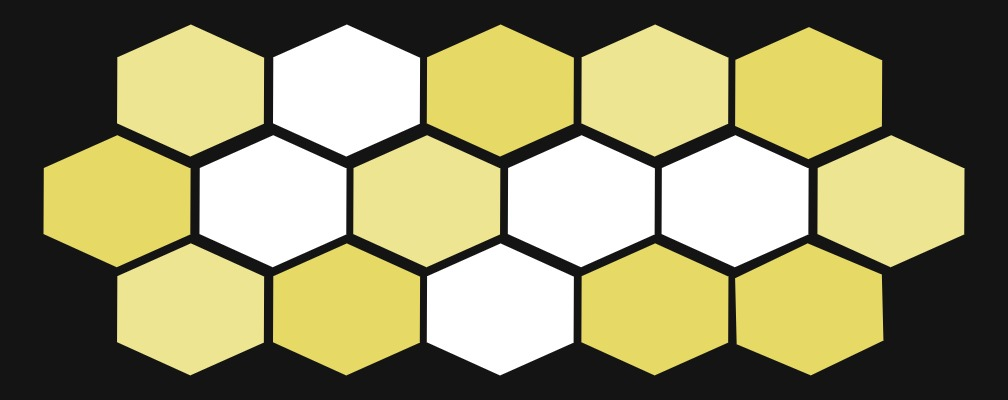
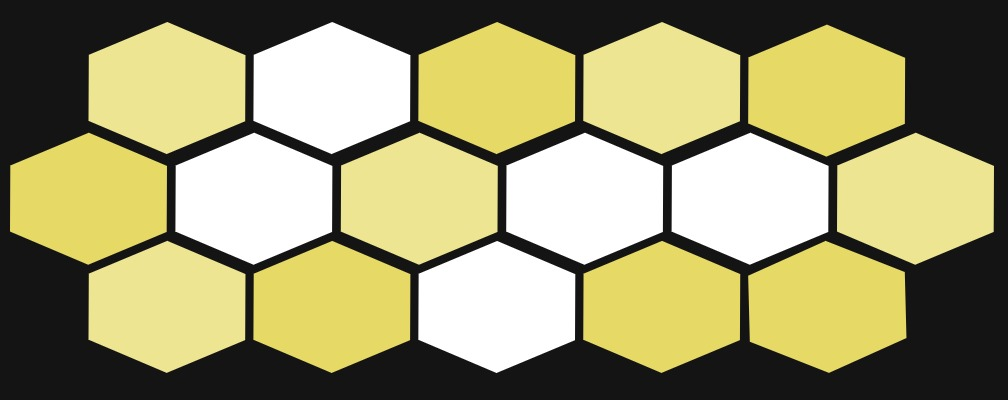
adding fade to hexagons resizing welcome page

diff --git a/index.html b/index.html
@@ -65,9 +65,26 @@
                         <i class="fa fa-linkedin" style="font-size:25px;"></i>
                     </a>
                 </p>
-                <div class="hexagon">
-                    <img src="images/hex.jpeg" class="img-responsive">
+                <div class="hexagon" class="slideshow-container">
+
+                    <div class="mySlides fade">
+                            <img src="images/hex.jpeg" class="img-responsive">
+                          </div>
+                          
+                          <div class="mySlides fade">
+                            <img src="images/hex2.jpeg" class="img-responsive">
+                          </div>
+                          
+                          <div class="mySlides fade">
+                            <img src="images/hex3.jpeg" class="img-responsive">
+                          </div>
+
                 </div>
+                <div>
+                        <span class="slide"></span> 
+                        <span class="slide"></span> 
+                        <span class="slide"></span> 
+                      </div>
     </div>
     <div id="about" class="container-fluid">
         <h1 id="abouth">About Me</h1>
@@ -277,6 +294,27 @@
                 this.className += " active";
             });
         }
+    </script>
+    <script>
+        var slideIndex = 0;
+showSlides();
+
+function showSlides() {
+    var i;
+    var slides = document.getElementsByClassName("mySlides");
+    var slide = document.getElementsByClassName("slide");
+    for (i = 0; i < slides.length; i++) {
+       slides[i].style.display = "none";  
+    }
+    slideIndex++;
+    if (slideIndex > slides.length) {slideIndex = 1}    
+    for (i = 0; i < slide.length; i++) {
+        slide[i].className = slide[i].className.replace(" active", "");
+    }
+    slides[slideIndex-1].style.display = "block";  
+    slide[slideIndex-1].className += " active";
+    setTimeout(showSlides, 2000); // Change image every 2 seconds
+}
     </script>
 
 </body>

diff --git a/CSS/style.css b/CSS/style.css
@@ -1,7 +1,7 @@
 body {
     position: relative;
 }
-#welcome {padding-top:98px;height:auto;color:  #d8ccc0; font-family: 'Fredericka the Great', cursive; background-color: #141414; text-align: center;}
+#welcome {padding-top:98px;height:640px;color:  #d8ccc0; font-family: 'Fredericka the Great', cursive; background-color: #141414; text-align: center;}
 #about {padding-top:50px;height:850px;color: #141414; font-family: 'Poiret One', cursive; background-color: #EEE592;}
 #portfolio {padding-top:50px;height:auto;color: #141414; font-family: 'Poiret One', cursive; background-color:  #EEE592;}
 #contact {padding-top:70px;height:500px; color: #141414; font-family: 'Poiret One', cursive; background-color:  #EEE592;}
@@ -43,6 +43,28 @@ body {
 .hexagon img{
     margin: 0 auto; /* 0 = top and bottom auto= left and right*/
 }
+
+/* Fading animation */
+.fade {
+    -webkit-animation-name: fade;
+    -webkit-animation-duration: 2.0s;
+    animation-name: fade;
+    animation-duration: 2.0s;
+  }
+  
+  @-webkit-keyframes fade {
+    from {opacity: .3} 
+    to {opacity: 1}
+  }
+  
+  @keyframes fade {
+    from {opacity: .3} 
+    to {opacity: 1}
+  }
+  
+  /* On smaller screens, decrease text size */
+  @media only screen and (max-width: 300px) {
+  }
 
 /*hex end */
 
